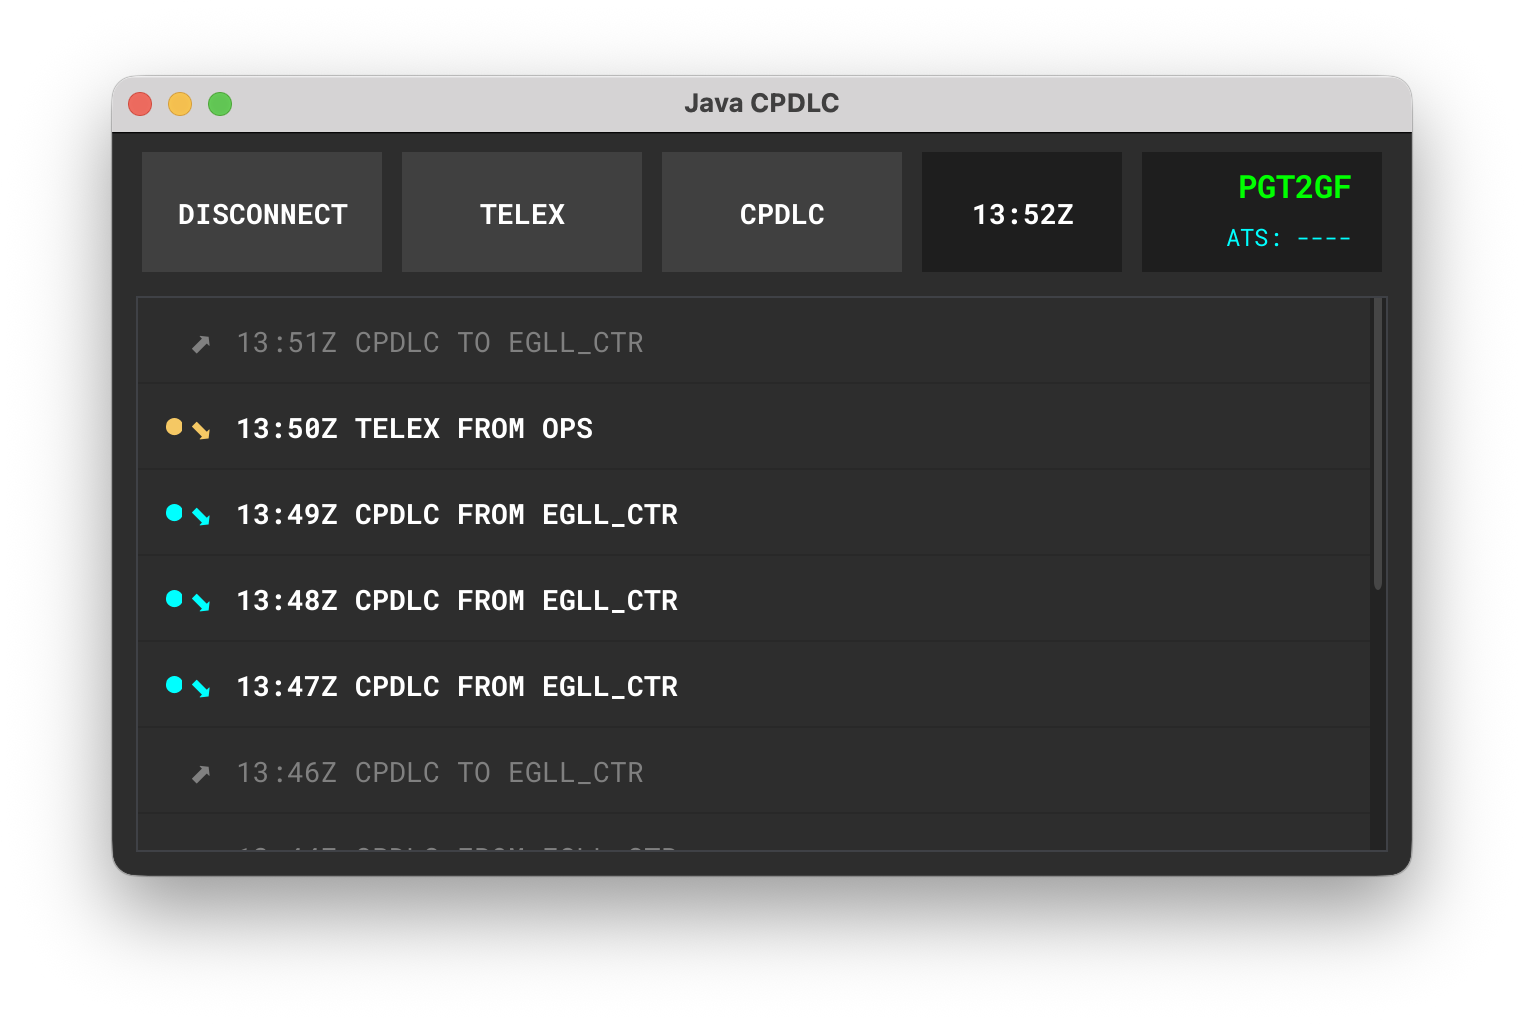
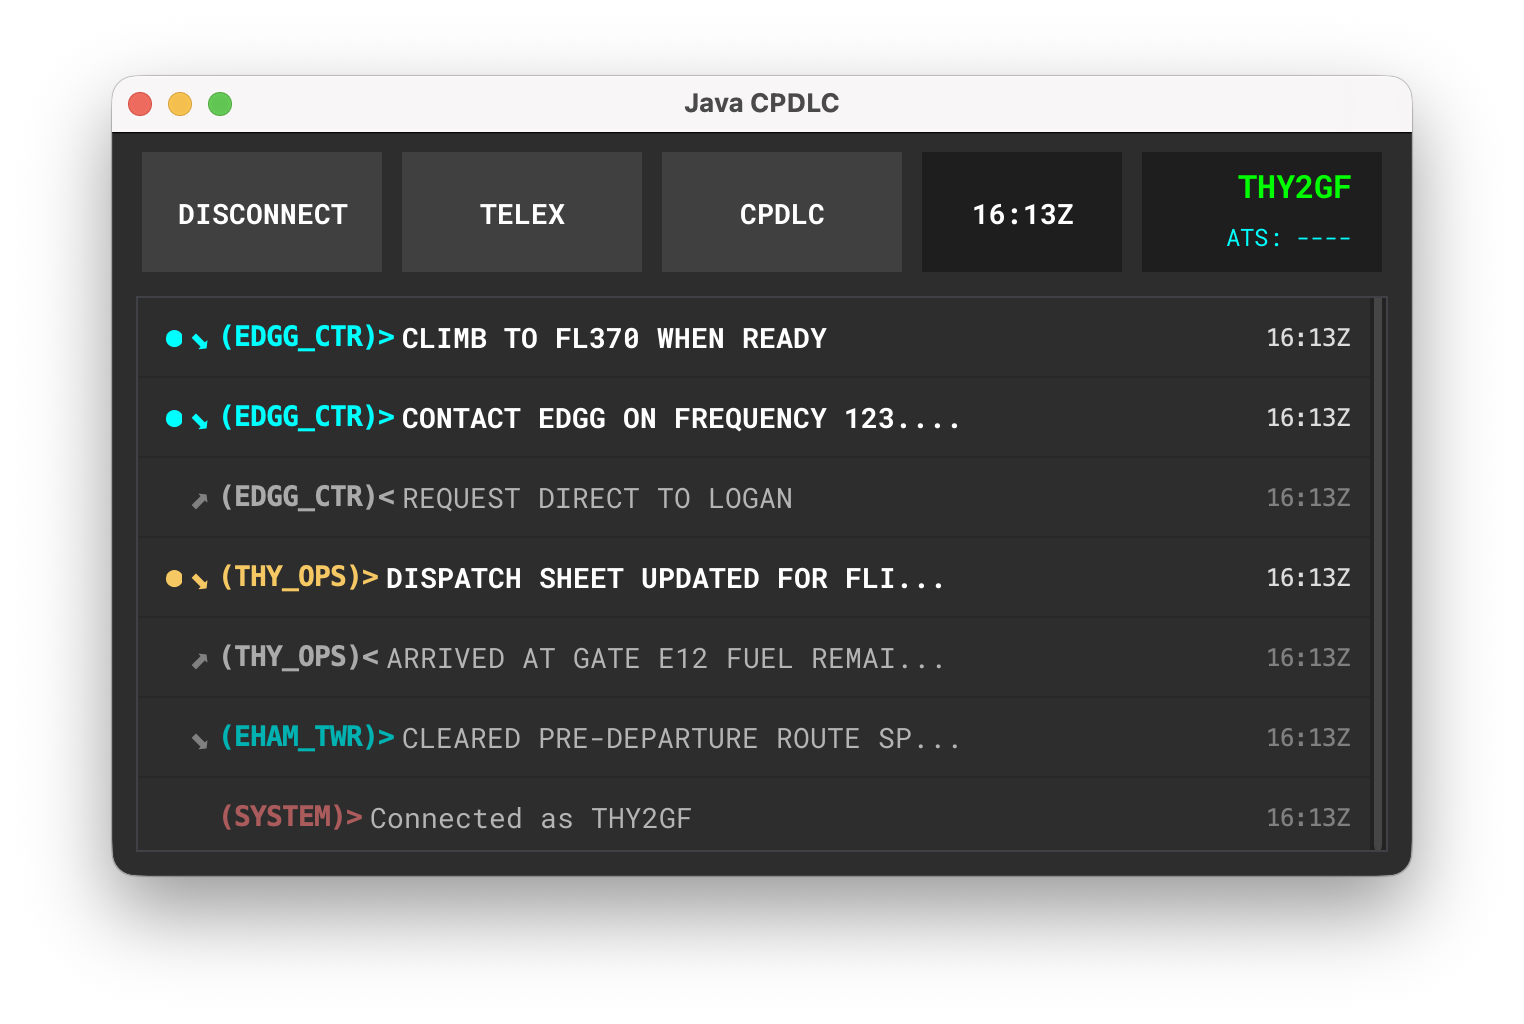
update readme and add mockup message screenshots

diff --git a/src/service/CpdlcService.java b/src/service/CpdlcService.java
@@ -55,6 +55,39 @@ public class CpdlcService {
         listeners.remove(listener);
     }
 
+    /**
+     * Used for adding mockup data, for testing purposes
+     */
+    public void populateMockData() {
+        this.currentATS = "EDGG_CTR";
+        this.isLoggedOn = true;
+
+        AcarsMessage m6 = new AcarsMessage("EHAM_TWR", "cpdlc", callsign, "CLEARED PRE-DEPARTURE ROUTE SPY3A RUNWAY 24");
+        m6.setRead(true);
+
+        AcarsMessage m5 = new AcarsMessage(callsign, "telex", "THY_OPS", "ARRIVED AT GATE E12 FUEL REMAINING 4200KG");
+        m5.setRead(true);
+
+        AcarsMessage m4 = new AcarsMessage("THY_OPS", "telex", callsign, "DISPATCH SHEET UPDATED FOR FLIGHT THY100");
+        m4.setRead(false);
+
+        AcarsMessage m3 = new AcarsMessage(callsign, "cpdlc", "EDGG_CTR", "REQUEST DIRECT TO LOGAN");
+        m3.setRead(true);
+
+        AcarsMessage m2 = new AcarsMessage("EDGG_CTR", "cpdlc", callsign, "CONTACT EDGG ON FREQUENCY 123.450");
+        m2.setRead(false);
+
+        AcarsMessage m1 = new AcarsMessage("EDGG_CTR", "cpdlc", callsign, "CLIMB TO FL370 WHEN READY");
+        m1.setRead(false);
+
+        addMessage(m6);
+        addMessage(m5);
+        addMessage(m4);
+        addMessage(m3);
+        addMessage(m2);
+        addMessage(m1);
+    }
+
     public void start() {
         checkInitialConnection();
         startAutoFetch();
@@ -72,6 +105,7 @@ public class CpdlcService {
             connectionMsg.setRead(true);
             addMessage(connectionMsg);
             notifyConnectionStatus(!connectionMsg.getMessage().startsWith("ERROR"));
+//            populateMockData();
         }).start();
     }
 

diff --git a/src/gui/DashboardPanel.java b/src/gui/DashboardPanel.java
@@ -175,12 +175,10 @@ public class DashboardPanel extends JPanel implements CpdlcListener {
                 if (!message.getMessage().toLowerCase().startsWith("connected as")) {
                     SoundManager.playWarning();
                     alertNewMessage();
-                    handleMessageSelection(message);
                 }
             } else {
                 SoundManager.playNotification();
                 alertNewMessage();
-                handleMessageSelection(message);
             }
         });
     }

diff --git a/README.md b/README.md
@@ -30,7 +30,7 @@ The project uses **Maven** for the build process, so no manual library downloads
    ```
 2. **Run:** After the build is complete, you can find the executable JAR file in the target folder. You can launch the application by double-clicking the JAR file or using the following command: 
    ```bash
-   java -jar target/java-cpdlc-1.1.jar
+   java -jar target/java-cpdlc-1.3.0.jar
    ```
    
 ## Usage
@@ -40,11 +40,23 @@ The project uses **Maven** for the build process, so no manual library downloads
 - If your callsign is in green color, the connection with Hoppie server has established.
 - If any connection problem occurs your callsign will become red.
 
+### Message Color Coding
+- **Blue**: CPDLC messages
+- **Yellow**: Telex messages
+- **Red**: System messages (Mostly related to Hoppie connection )
+
+### Automatic CPDLC Handover & Logoff
+Incoming ATC handover instructions and logoff messages are processed automatically
+- **Handover**: Automatically requests a logon to the next ATS unit and logs off from the previous station once accepted.
+- **Logoff**: Automatically disconnects from the active ATS unit upon receiving a service termination message.
+
+
+
 ## Contribution
 As of now, the code doesn't have javadoc so it's a bit of mess. I will for sure write javadoc and necessary comments to the code. 
 
 However, any pull requests are still welcome. See below what I am currently working on. 
 
 #### Features to implement
+- CDU style new GUI
 - Oceanic Clearance implementation
-- Clean the code and structure
